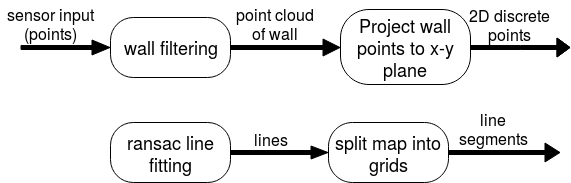
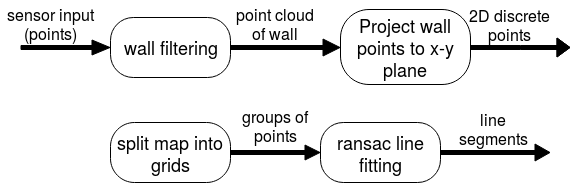
z

diff --git a/wuyusin/csp-paper.tex b/wuyusin/csp-paper.tex
@@ -87,9 +87,13 @@ You should list the hardware which is necessary in your project. Your project wi
 
 \section{SPECIFIC AIMS}
 
-Specific aims need to be concrete enough, so that it is clear what will be the expected outcomes of this work. You also need a reasonable scope that you could finish in this semester.
-
+\begin{figure}[h] % h means put this image here
+\includegraphics[width=0.8\columnwidth]{map.jpg}
+\centering
+\caption{map}
+\end{figure}
 \begin{itemize}
+The experiment environment is a map in shape of a lightning bolt, the duckiebot needs to turn left and right in order to get to the end. 
 \item Specific Aim 1.
 
 Dukiebot can go through a map which has fixed lane width.
@@ -106,34 +110,32 @@ Dukiebot can go through a map which has dynamic lane width.
 \centering
 \caption{approach flowchart}
 \end{figure}
-1.Wall filtering : Compute the normal of every point, keep points whose normal is horizontal(these points may be the wall part), filter out points whose normal is vertical(these points may be floor or something else).
+Wall filtering : Compute the normal of every point, keep points whose normal is horizontal(these points may be the wall part), filter out points whose normal is vertical(these points may be floor or something else).
 
-2.Project wall points : We now have 3D points of wall, but with these points, we can't determine which way to go. So we need to project the wall to x-y plane, then form 2D discrete points. these points imply the trend of wall.  
+Project wall points : We now have 3D points of wall, but with these points, we can't determine which way to go. So we need to project the wall to x-y plane, then form 2D discrete points. these points imply the trend of wall.  
 
-3.RANSAC line fitting : Model the 2D points into a best line.
+RANSAC line fitting : Model the 2D points into a best line.
 \begin{figure}[h] % h means put this image here
 \includegraphics[width=0.5\columnwidth]{RANSAC.png}
 \centering
 \caption{Fitted line with RANSAC; outliers have no influence on the result.}
 \end{figure}
 
-4. Split map : Because the road happens to be curved, we need to split the line, so we can get straight line segments.
+Split map : 
+Because the road happens to be curved, we need to split the line, so we can get straight line segments.
 
 
 \section{SCHEDULE AND TEAM COLLABORATION}
-
-(individual part)
 
 1. Wall filtering	    5days	11/03	11/09
 
 2. Project wall points	5days	11/10	11/16
 
-3. RANSAC line fitting	7days	11/17	11/27
+3. Split map	        7days	11/17	11/27
 
-4. Split map	        8days	11/28	12/07
+4. RANSAC line fitting	8days	11/28	12/07
 
-In this section you should write a estimated timeline of your project. This schedule will be very crucial to keep up progress for your project. If you are in a team, you're encouraged to add other team members' on the timeline. It will better show the coordination of your team.
-   
+5. dynamic-lane-width lane filter 12/08 12/15
 
 \addtolength{\textheight}{-12cm}   % This command serves to balance the column lengths
                                   % on the last page of the document manually. It shortens
